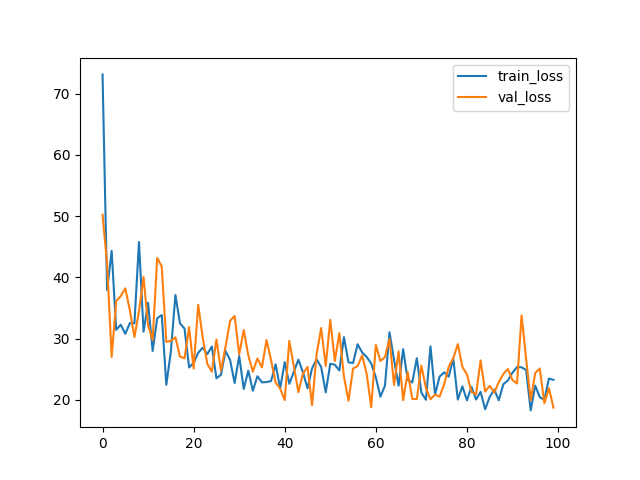
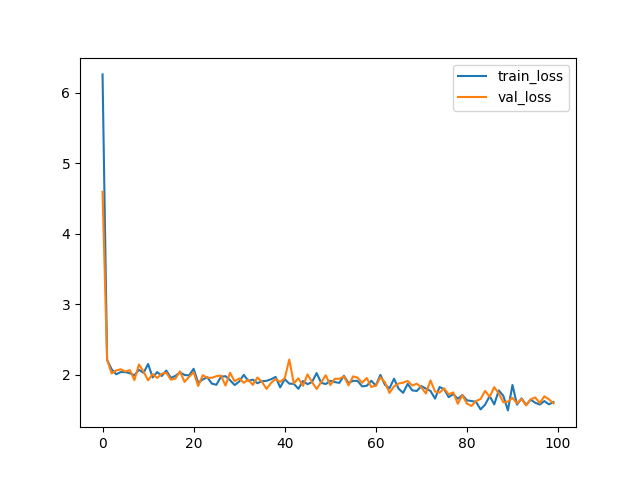
Train

diff --git a/main.py b/main.py
@@ -82,6 +82,7 @@ class YoloLoss(nn.Module):
         y_pred = flatten(y_pred)
         p_coords = flatten(coords)
         p_confs = flatten(p_confs)
+        flat_confs = flatten(_confs)
 
         true = torch.cat([coord, confs], 1)
         wght = torch.cat([cooid, conid], 1)
@@ -89,6 +90,8 @@ class YoloLoss(nn.Module):
         loss = torch.pow(pred - true, 2)
         loss = loss * wght
         loss = torch.sum(loss, 1)
+        totals = torch.sum(flat_confs, 1)
+        loss = loss / totals
         return .5 * torch.mean(loss)
 
 class Model(nn.Module):
@@ -314,6 +317,7 @@ class Model(nn.Module):
         labels = self.get_people_in_labels(y, debug=debug)
         total_error = 0
         for i in range(len(labels)):
+            print(predictions[i], labels[i])
             total_error += abs(labels[i] - predictions[i]) / labels[i]
 
         score = total_error / len(labels)
@@ -327,8 +331,8 @@ class Model(nn.Module):
                 for j in range(S):
                     for b in range(B):
                         if label[i][j][b][4] > CONFIDENCE_THRESHHOLD:
-                            if debug:
-                                print(i, j, b, label[i][j][b][4])
+                            #if debug:
+                            #    print(i, j, b, label[i][j][b][4])
                             people += 1
             people_arr[index] = people
         return people_arr
@@ -405,7 +409,7 @@ def test():
     labels = labels | get_labels("data/annotation_train.odgt")
 
     y = labels
-    image_paths = os.listdir("data/Images")[1:]
+    image_paths = os.listdir("data/Images")[:100]
     print(image_paths)
 
     inaccuracy = model.score(image_paths, y, debug=True)
